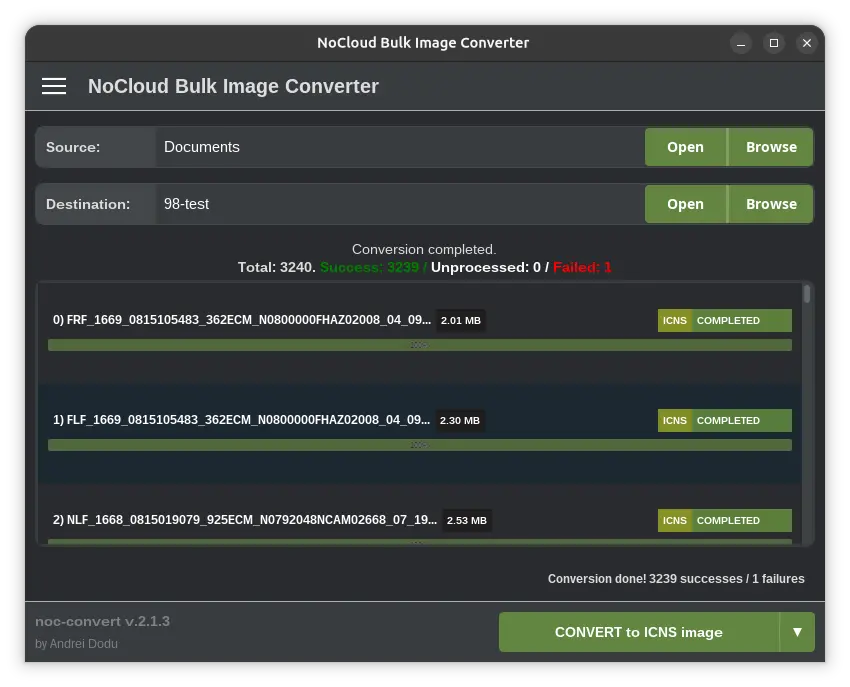
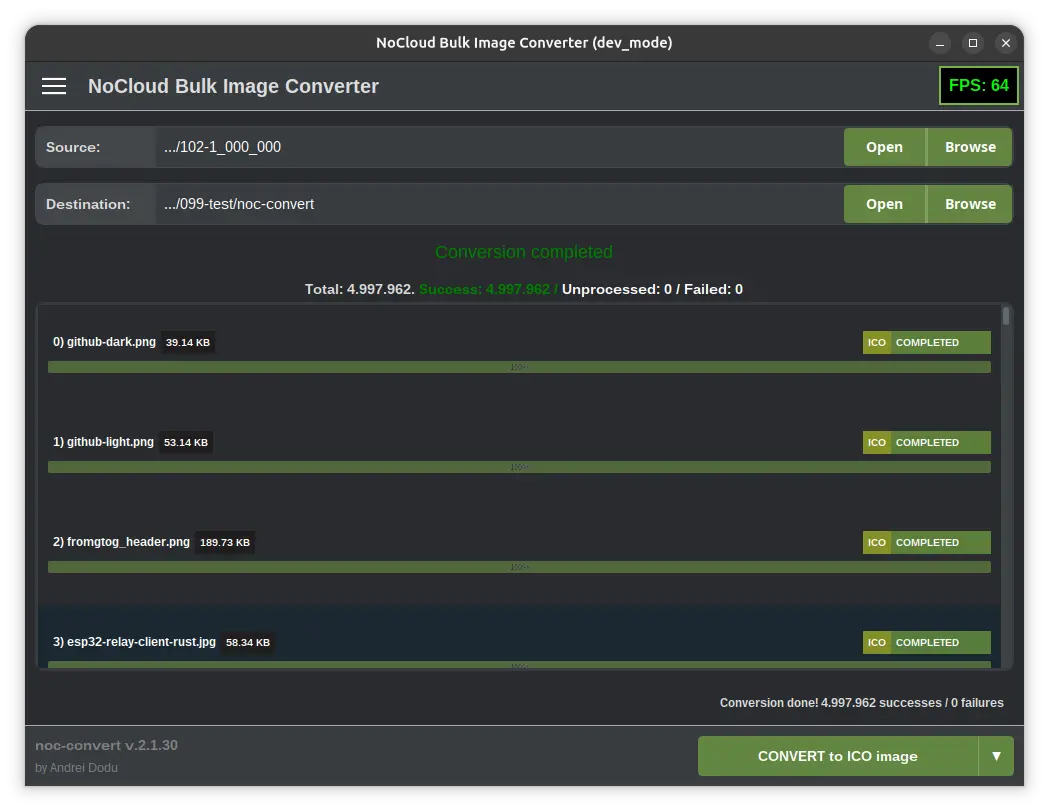
fix: performance - renaming 5 millions completed images

Changed region(s): [[0.0, 0.0306, 0.9788, 0.9782], [0.2753, 0.3057, 0.7341, 0.3974]]

diff --git a/src/main/java/org/andreidodu/nocconvert/gui/worker/ConversionOrchestrator.java b/src/main/java/org/andreidodu/nocconvert/gui/worker/ConversionOrchestrator.java
@@ -27,6 +27,7 @@ import java.util.concurrent.atomic.AtomicBoolean;
 import static org.andreidodu.nocconvert.constants.ApplicationConfig.FINAL_OUTPUT_DIRECTORY_NAME;
 import static org.andreidodu.nocconvert.constants.ApplicationConfig.TMP_OUTPUT_DIRECTORY_NAME;
 import static org.andreidodu.nocconvert.helper.FileUtil.buildVirtualThreadFactory;
+import static org.andreidodu.nocconvert.helper.OperationUtil.retryable;
 import static org.andreidodu.nocconvert.helper.performance.AdaptiveSimpleGovernorRunnable.calculateSafeValueWithoutXPercent;
 
 public class ConversionOrchestrator {
@@ -240,24 +241,33 @@ public class ConversionOrchestrator {
     }
 
     private Void renameAllProcessedFiles() {
-        processedFilesQueue.forEach(conversionItemDTO -> {
+        while (!processedFilesQueue.isEmpty()) {
+            ConversionItemDTO conversionItemDTO = processedFilesQueue.poll();
+
             if (ConversionStatus.COMPLETED.equals(conversionItemDTO.getStatus())) {
                 Path uniqueTmpFilename = conversionItemDTO.getTmpFile();
                 Path uniqueFinalFilename = FileUtil.tmpFilenameToFinal(uniqueTmpFilename);
-                try {
-                    if (!uniqueTmpFilename.toFile().renameTo(uniqueFinalFilename.toFile())) {
-                        throw new IOException("Unable to rename image file: " + uniqueTmpFilename);
-                    }
-                } catch (IOException e) {
-                    log.error("Unable to rename image file: from {} to {}", uniqueTmpFilename, uniqueFinalFilename, e);
+
+                boolean result = retryable(() -> {
+                    Files.move(uniqueTmpFilename, uniqueFinalFilename, StandardCopyOption.REPLACE_EXISTING);
+                    return true;
+                });
+
+                if (!result) {
+                    log.error("Unable to rename image file: from {} to {}", uniqueTmpFilename, uniqueFinalFilename);
                 }
+
             } else if (ConversionStatus.FAILED.equals(conversionItemDTO.getStatus())) {
-                if (conversionItemDTO.getTmpFile().toFile().delete()) {
+
+                if (conversionItemDTO.getTmpFile().toFile().exists()) {
+                    boolean result = conversionItemDTO.getTmpFile().toFile().delete();
+                    log.debug("Delete image file: {} because it's status is FAILED, so I considered it as a corrupted file", result);
                 }
+
                 conversionOrchestratorInputDTO.incrementFailures();
                 conversionOrchestratorInputDTO.decrementSuccesses();
             }
-        });
+        }
         return null;
     }
 

diff --git a/src/main/java/org/andreidodu/nocconvert/helper/OperationUtil.java b/src/main/java/org/andreidodu/nocconvert/helper/OperationUtil.java
@@ -4,8 +4,8 @@ import org.andreidodu.nocconvert.funcinterface.ThrowingBiConsumer;
 import org.apache.logging.log4j.LogManager;
 import org.apache.logging.log4j.Logger;
 
+import java.util.concurrent.Callable;
 import java.util.concurrent.Semaphore;
-import java.util.function.BiConsumer;
 import java.util.function.Function;
 
 import static org.apache.commons.lang3.exception.ExceptionUtils.getRootCauseMessage;
@@ -15,6 +15,27 @@ public class OperationUtil {
 
     private static final int MAX_ATTEMPTS = 20;
     private static final long SLEEP_TIME_MS = 100;
+
+    public static boolean retryable(Callable<Boolean> operation) {
+        try {
+            int attempt = 0;
+            boolean isDone = false;
+
+            while (!isDone && attempt < MAX_ATTEMPTS) {
+                try {
+                    return operation.call();
+                } catch (Exception ex) {
+                    log.warn(ex.getMessage(), ex);
+                }
+                attempt++;
+                sleep();
+            }
+            return false;
+        } catch (Exception e) {
+            log.error(getRootCauseMessage(e), e);
+            throw new RuntimeException(e);
+        }
+    }
 
     public static <T, O> O retryable(Semaphore vtSemaphore, T input, Function<T, O> operation) {
         try {
@@ -46,7 +67,7 @@ public class OperationUtil {
         }
     }
 
-    public static <I1, I2 > void retryable(Semaphore vtSemaphore, I1 input1, I2 input2, ThrowingBiConsumer<I1, I2> operation) {
+    public static <I1, I2> void retryable(Semaphore vtSemaphore, I1 input1, I2 input2, ThrowingBiConsumer<I1, I2> operation) {
         try {
             if (vtSemaphore != null) {
                 vtSemaphore.acquire();
@@ -56,7 +77,7 @@ public class OperationUtil {
 
             while (!isDone && attempt < MAX_ATTEMPTS) {
                 try {
-                     operation.accept(input1, input2);
+                    operation.accept(input1, input2);
                 } catch (Exception ex) {
                     log.warn(ex.getMessage(), ex);
                 }

diff --git a/src/main/java/org/andreidodu/nocconvert/gui/GUIOrchestrator.java b/src/main/java/org/andreidodu/nocconvert/gui/GUIOrchestrator.java
@@ -82,7 +82,7 @@ public class GUIOrchestrator extends JFrame {
         JPopupMenu menu = new JPopupMenu("Main Menu");
         JMenuItem about = new JMenuItem("About");
         about.addActionListener((e) -> JOptionPane.showMessageDialog(null,
-                "NoCloud Bulk Image Converter\nv. 2.1.30\nby Andrei Dodu",
+                "NoCloud Bulk Image Converter\nv. 2.1.32\nby Andrei Dodu",
                 "About",
                 JOptionPane.INFORMATION_MESSAGE));
 
@@ -322,7 +322,7 @@ public class GUIOrchestrator extends JFrame {
         Font label1Font = this.$$$getFont$$$(null, Font.BOLD, 14, label1.getFont());
         if (label1Font != null) label1.setFont(label1Font);
         label1.setForeground(new Color(-8289660));
-        label1.setText("noc-convert v.2.1.30");
+        label1.setText("noc-convert v.2.1.32");
         panel5.add(label1, new GridConstraints(0, 0, 1, 1, GridConstraints.ANCHOR_WEST, GridConstraints.FILL_NONE, GridConstraints.SIZEPOLICY_FIXED, GridConstraints.SIZEPOLICY_FIXED, null, null, null, 0, false));
         final JLabel label2 = new JLabel();
         Font label2Font = this.$$$getFont$$$(null, -1, 12, label2.getFont());

diff --git a/src/main/java/org/andreidodu/nocconvert/helper/FileUtil.java b/src/main/java/org/andreidodu/nocconvert/helper/FileUtil.java
@@ -152,6 +152,7 @@ public class FileUtil {
         while (Files.exists(file)) {
             file = Path.of(potentiallyDuplicateOutputFile.getParent().toString(), cleanFilenameWithoutExtension + "(" + (renameCounter.incrementAndGet()) + ")." + extension);
         }
+        log.debug("new fileId: {}", renameCounter.get());
         return file;
     }
 

diff --git a/src/main/java/org/andreidodu/nocconvert/gui/controller/ConversionController.java b/src/main/java/org/andreidodu/nocconvert/gui/controller/ConversionController.java
@@ -19,7 +19,6 @@ import org.apache.logging.log4j.Logger;
 import javax.swing.*;
 import java.nio.file.Path;
 import java.text.DecimalFormat;
-import java.text.DecimalFormatSymbols;
 import java.text.SimpleDateFormat;
 import java.util.*;
 import java.util.concurrent.*;

diff --git a/README.md b/README.md
@@ -1,4 +1,4 @@
-# NoCloud Bulk Image Converter v.2.1.30 (aka noc-convert)
+# NoCloud Bulk Image Converter v.2.1.32 (aka noc-convert)
 
 <div id="introduction"> </div>
 
@@ -75,13 +75,13 @@ anywhere.
 
 ## Download
 
-<div id="download">v.2.1.30</div>
+<div id="download">v.2.1.32</div>
 
 | Platform    | AMD 64-bit                                                                                                                                    | ARM 64-bit                                                                                                                                  |
 |:------------|:----------------------------------------------------------------------------------------------------------------------------------------------|:--------------------------------------------------------------------------------------------------------------------------------------------|
-| **Linux**   | [zip (.deb)](https://andre-i.eu/api/v1/download?filePath=noc-convert/releases/download/2.1.30/noc-convert-Linux-2.1.30-amd64-Installer.zip)   | [App Center (amd64/arm64 snap)](https://snapcraft.io/noc-convert)                                                                           |
-| **Windows** | [zip (.msi)](https://andre-i.eu/api/v1/download?filePath=noc-convert/releases/download/2.1.30/noc-convert-Windows-2.1.30-amd64-Installer.zip) | N/A                                                                                                                                         |
-| **macOS**   | [zip (.pkg)](https://andre-i.eu/api/v1/download?filePath=noc-convert/releases/download/2.1.30/noc-convert-MacOS-2.1.30-amd64-Installer.zip)   | [zip (.pkg)](https://andre-i.eu/api/v1/download?filePath=noc-convert/releases/download/2.1.30/noc-convert-MacOS-2.1.30-arm64-Installer.zip) |
+| **Linux**   | [zip (.deb)](https://andre-i.eu/api/v1/download?filePath=noc-convert/releases/download/2.1.32/noc-convert-Linux-2.1.32-amd64-Installer.zip)   | [App Center (amd64/arm64 snap)](https://snapcraft.io/noc-convert)                                                                           |
+| **Windows** | [zip (.msi)](https://andre-i.eu/api/v1/download?filePath=noc-convert/releases/download/2.1.32/noc-convert-Windows-2.1.32-amd64-Installer.zip) | N/A                                                                                                                                         |
+| **macOS**   | [zip (.pkg)](https://andre-i.eu/api/v1/download?filePath=noc-convert/releases/download/2.1.32/noc-convert-MacOS-2.1.32-amd64-Installer.zip)   | [zip (.pkg)](https://andre-i.eu/api/v1/download?filePath=noc-convert/releases/download/2.1.32/noc-convert-MacOS-2.1.32-arm64-Installer.zip) |
 
 ## Installation and Usage
 
